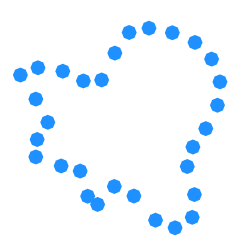
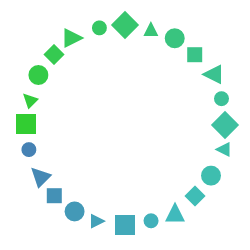
Update example 7

diff --git a/example_0007.py b/example_0007.py
@@ -7,6 +7,7 @@ created by Eline Van Geert
 # Load necessary objects and functions from OCTA
 from octa.Stimulus import Outline
 from octa.patterns import GridPattern
+from octa.shapes import Rectangle, Triangle, Ellipse
 
 # Define stimulus name
 stimname = "example_0007"
@@ -15,7 +16,16 @@ stimname = "example_0007"
 stim = Outline(n_elements = 24, shape_boundingbox = (100,100), size = (250,250))
 
 # Add bounding box sizes for the elements
-stim.boundingboxes = GridPattern.RepeatAcrossElements( [ (15,15) ] )
+stim.boundingboxes = GridPattern.RepeatAcrossElements( [ (20,20), (15,15) ] )
+
+# Add shapes for the elements
+stim.shapes = GridPattern.RepeatAcrossElements( [ Rectangle, Triangle, Ellipse ] )
+
+# Add fillcolors for the elements
+stim.fillcolors = GridPattern.GradientAcrossElements( start_value = 'limegreen', end_value = 'steelblue' )
+
+# Add orientations for the elements
+stim.orientations = GridPattern.MirrorAcrossElements( [ -90, -45, 0, 45, 90 ] )
 
 # Save stimulus
 stim.Show()
